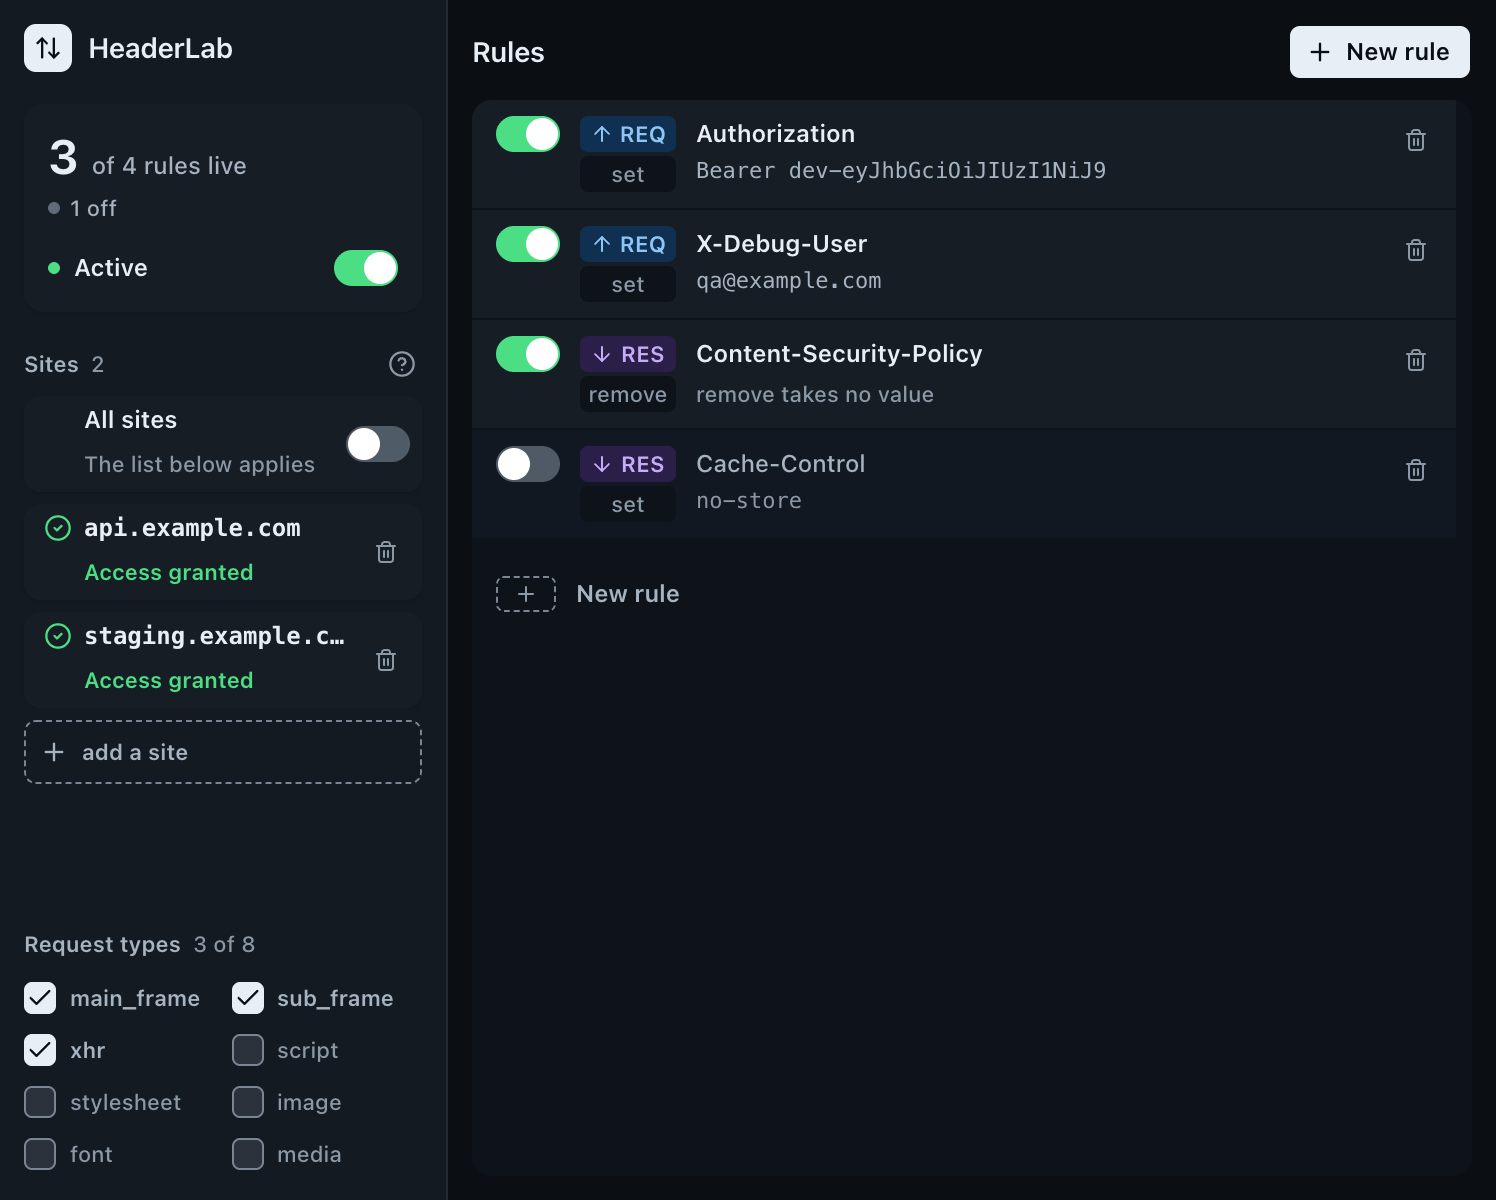
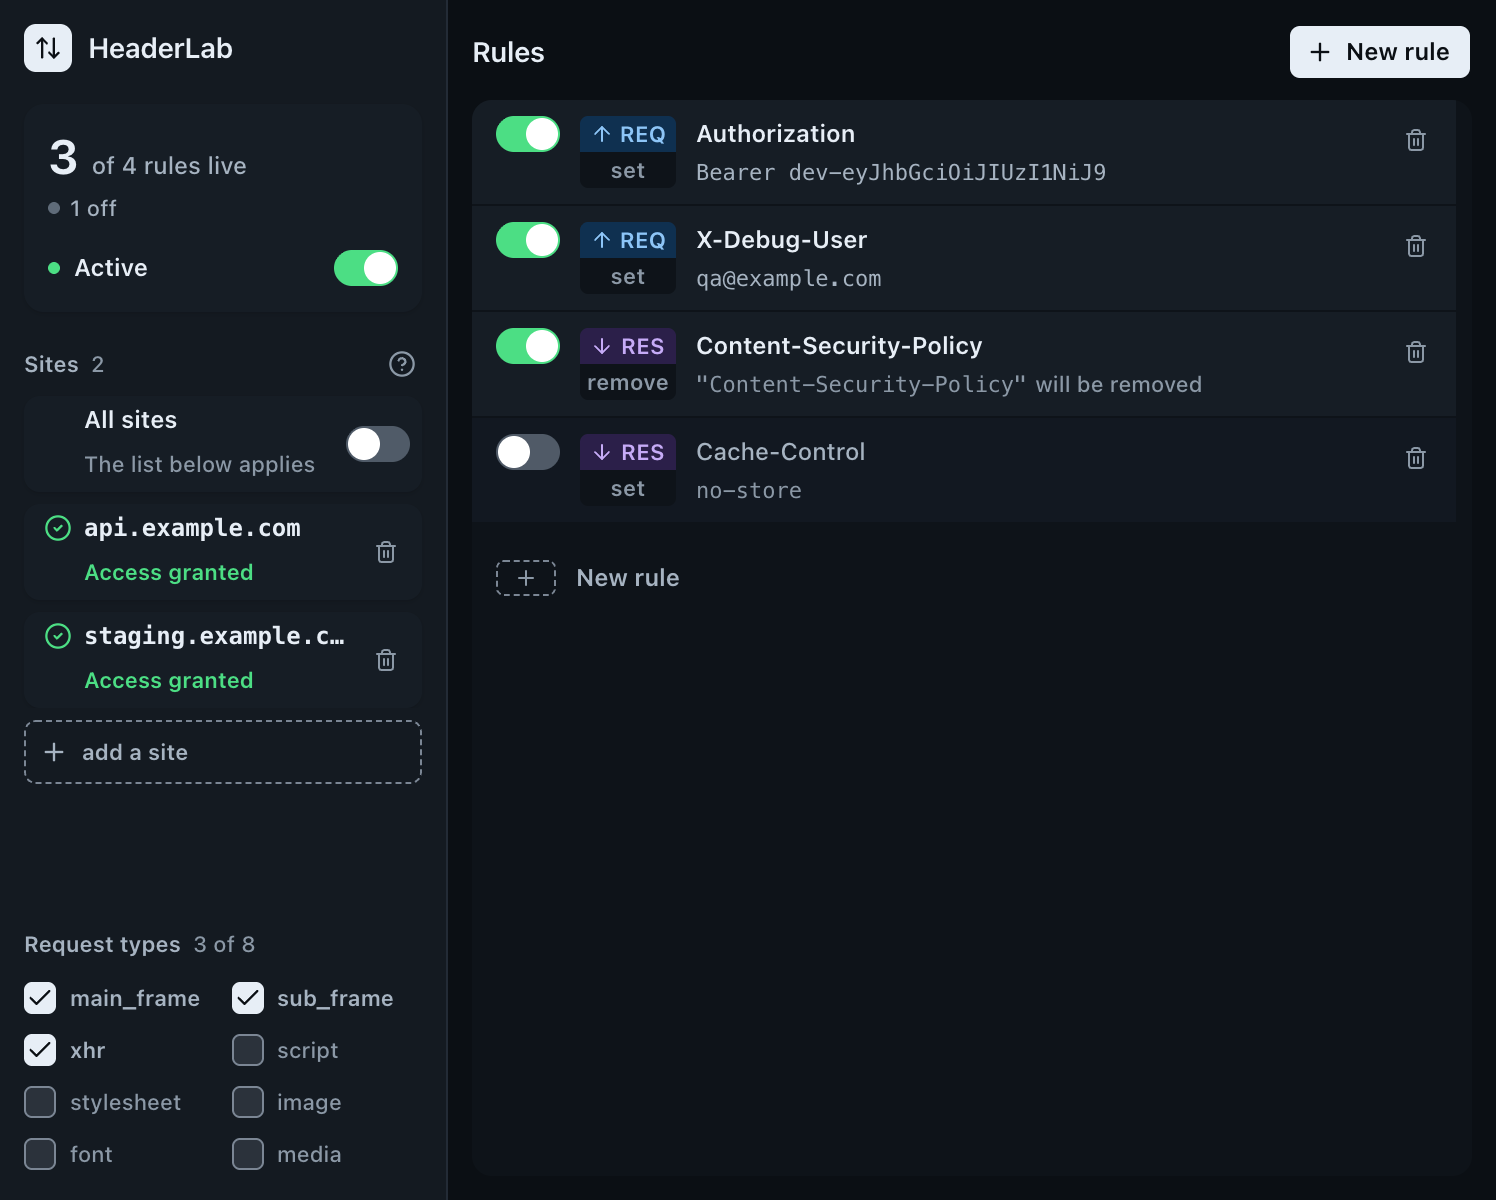
refactor: 방향 배지와 operation 을 하나의 블록으로 잇고, 값 영역을 다시 그린다
오너 요청 6건 중 컴파일 버그(73b1252, 별도 커밋)를 뺀 UI 다섯 건.

2. REQ 와 SET 을 이어 붙인다 — 시안 C 안. 바깥 컨테이너 하나가
   rounded-[4px] 와 overflow-hidden 을 갖고, 배지·칩은 각각 rounded-none
   h-[18px] w-12 로 이음매 없이 붙는다. 처음 C 안을 보였을 때 낸 우려를
   그대로 옮긴다 — 서로 다른 값을 바꾸는 버튼 둘이 한 덩어리로 보이면 한
   클릭이 둘 다 바꾸는 것처럼 읽힌다. 오너가 그걸 알고 골랐으니 만들되,
   hover:brightness-110 으로 절반만 밝아지게 해 두 버튼이라는 걸 손으로
   확인할 수 있게 했다. aria-label 둘은 그대로 유지.

3. 칩 타이포를 배지와 맞춘다 — 실측해 보니 폰트 크기(11px)는 이미
   같았고 실제로 다른 건 굵기(500→600)와 자간(normal→0.11px) 이었다.
   font-semibold tracking-[0.01em] 로 올려 배지와 완전히 같게 만들었다.

4. "상태에 따라 폰트가 바뀐다"는 실측상 사실이 아니었다 — set/append/
   remove/off 네 상태 전부 11px·600·0.11px·48×18 로 동일했고(3번 고치기
   전에도 그랬다), 다른 건 고정 48px 안의 글자 수뿐이었다. 코드 변경 없음.

5. 오른쪽 열(이름+값)을 거터 높이에 맞춰 다시 배치한다. self-stretch 로
   거터와 같은 높이를 갖게 하고 justify-between 으로 이름은 위(거터의
   배지와 같은 y), 값은 아래(거터 바닥과 같은 y)에 고정했다 — 가운데
   정렬을 그대로 썼다면 이름이 배지보다 아래로 밀려 지금 레이아웃의
   기준선이 깨졌을 것이다. 실측: 이름 top=8·bottom=26 이 배지와 정확히
   같고, 값 bottom=44 가 거터 바닥과 정확히 같다.

   부수 효과: 배지+칩을 2번에서 붙이며 거터 사이 gap 이 없어져 거터가
   38px→36px 로 줄고, 행 높이가 54px→52px 로 같이 줄었다 — 지난 태스크가
   재서 적어 둔 54px 는 이제 옛 숫자다.

6. remove 값 영역 문구를 "무엇을 할지" 말하게 바꾼다 — "X will be
   removed"(헤더 이름은 모노, 나머지는 산세리프). 이름이 비어 있으면
   빈 따옴표 대신 이름 절 자체를 뺀 문장을 쓴다. 긴 이름은 truncate +
   title 로 잘리고 고정 어미는 안 잘린다(AddSiteField.tsx 의 같은 패턴).
   disabled:opacity-50 대신 cursor-not-allowed 를 썼다 — opacity-50 을
   --muted-foreground 에 얹으면 대비가 2.1~2.5:1 로 떨어져(실측) 이
   저장소가 지키는 4.5 바닥을 깬다. cursor-not-allowed 도 같은 shadcn
   disabled 어휘고, 대비 비용이 없다.
[…]

diff --git a/components/RuleCard.tsx b/components/RuleCard.tsx
@@ -34,20 +34,24 @@ export interface RuleCardProps {
  * This is where "one line, four button languages" lived: direction was a
  * pill, `set`/`remove` was a bordered box, delete was a bare `×`, and the
  * switch was a fourth shape again. Now there is one family — a real Switch,
- * a direction Badge carrying an arrow stacked above an operation chip cut
- * from the exact same cloth (same size, same radius, the badge's sibling
- * rather than a fourth shape of its own — their fills differ on purpose,
- * see the chip's own comment below), and a ghost icon Button for delete.
+ * a direction Badge fused to an operation chip cut from the exact same
+ * cloth (same size, same radius, the badge's sibling rather than a fourth
+ * shape of its own — their fills differ on purpose, see the chip's own
+ * comment below), and a ghost icon Button for delete.
  *
  * The gutter reads top-to-bottom as *what this rule does* — direction, then
- * operation, two chips in one column — and the right-hand column reads as
+ * operation, one glued block with a straight seam rather than a gap between
+ * its two halves (owner decision: variant C of four 1:1 renders, picked
+ * knowing the risk a fused shape carries — two buttons that change two
+ * different fields can read as one; the `hover:brightness-110` on each half
+ * is what keeps that discoverable) — and the right-hand column reads as
  * *what it is about* — name, then value, the value now alone on its own
- * line and free to use the column's full width (owner decision: variant B
- * of four 1:1 renders, chip height pinned to the badge's 18px). Name is
- * sans, value is monospace — provenance, not rank, decides the typeface
+ * line and free to use the column's full width. Name is sans, value is
+ * monospace — provenance, not rank, decides the typeface
  * (docs/design/2026-08-07-popup-tight-instrument.html). A `remove` rule has
- * no value, and says so in the place a value would be rather than rendering
- * an empty field.
+ * no value, and its line says what the row will actually do — `"X-Trace"
+ * will be removed` — rather than describing the empty field it doesn't
+ * render.
  *
  * The row's height follows its value: the value wraps and grows rather than
  * truncating, the same bargain the pre-mockup design struck — a value with
@@ -72,6 +76,10 @@ export function RuleCard({ rule, diagnostics, onPatch, onDelete, autoFocus }: Ru
   const name = useCommittedDraft(rule.name, (next) => onPatch({ name: next }));
   const value = useCommittedDraft(rule.value, (next) => onPatch({ value: next }));
   const removes = rule.operation === 'remove';
+  // The stored name, not `name.draft` — the remove-value sentence is a
+  // static readout of what is actually saved, not of what is mid-edit in
+  // the name field beside it.
+  const removeName = rule.name.trim();
   const DirIcon = TARGET_ICON[rule.target];
 
   /**
@@ -130,18 +138,26 @@ export function RuleCard({ rule, diagnostics, onPatch, onDelete, autoFocus }: Ru
           className="data-checked:bg-live [&_[data-slot=switch-thumb]]:dark:bg-white"
         />
 
-        {/* The gutter: direction over operation, one column, two chips cut
-            from the same cloth. Owner-picked variant B of four 1:1 renders,
-            with one addendum — the chip is pinned to the badge's own 18px
-            height rather than shaved down to save the 3px the taller gutter
-            costs. `gap-0.5` (2px) keeps them two controls, not one: flush
-            against each other would read as a single button that changes
-            both direction and operation on one click, and they change
-            different fields. */}
-        <div className="flex flex-col gap-0.5">
+        {/* The gutter: direction fused to operation, one rounded block.
+            Owner-picked variant C of four 1:1 renders — the fused shape I
+            flagged a concern about when I first drew it: these are two
+            buttons that change two different fields, and a single glued
+            block reads as one control that would flip both on one click.
+            Built anyway (the owner's call, made knowing the concern), with
+            the two-button nature made discoverable on touch — see the
+            `hover:brightness-110` on each half below, which lights up only
+            the half under the cursor, and the two distinct `aria-label`s,
+            unmerged.
+
+            The outer box owns the only curve (`rounded-[4px]`, the corner
+            radius for controls this size) and clips its children
+            (`overflow-hidden`); each half is `rounded-none` and exactly
+            `h-[18px] w-12`, so the seam between them is a straight line, not
+            a gap — `gap-0.5` from the previous (B) round is gone. */}
+        <div className="flex w-12 shrink-0 flex-col overflow-hidden rounded-[4px]">
           <Badge
             asChild
-            className={`h-[18px] w-12 shrink-0 justify-center gap-[3px] rounded-[4px] border-0 px-0 py-0 text-[11px] font-semibold tracking-[0.01em] ${TARGET_TONE[rule.target]}`}
+            className={`h-[18px] w-12 shrink-0 justify-center gap-[3px] rounded-none border-0 px-0 py-0 text-[11px] font-semibold tracking-[0.01em] hover:brightness-110 ${TARGET_TONE[rule.target]}`}
           >
             <button
               type="button"
@@ -159,20 +175,28 @@ export function RuleCard({ rule, diagnostics, onPatch, onDelete, autoFocus }: Ru
               clipping check the same way it was counted as the old op
               button.
 
-              What it actually shares with the badge above it is narrower
-              than "same fill logic": both are opaque token pairs, never
-              repainted by the *row's* state (`data-off`), so the text stays
-              `--muted-foreground` on `--tray` whether the rule is on or
-              off — that is the parity, and it is the only one. The badge
-              *does* still repaint by its own value (`TARGET_TONE`, blue
-              REQ / purple RES); the chip deliberately does not, because
-              three operations is a cycler rather than a two-state
-              direction, and tinting each would spend colour marking a
-              distinction the word "set"/"append"/"remove" already makes on
-              its own. */}
+              Typography now matches the badge exactly rather than only in
+              size: `font-semibold tracking-[0.01em]`, the same 600 weight
+              and 0.11px letter-spacing REQ/RES wears (measured — the two
+              were already both 11px; weight and tracking were the actual
+              gap, and are what read as a size difference). Never repainted
+              by `rule.operation` or by `data-off` — what it shares with the
+              badge above it is narrower than "same fill logic": both are
+              opaque token pairs, never repainted by the *row's* state, so
+              the text stays `--muted-foreground` on `--tray` whether the
+              rule is on or off. The badge *does* still repaint by its own
+              value (`TARGET_TONE`, blue REQ / purple RES); the chip
+              deliberately does not, because three operations is a cycler
+              rather than a two-state direction, and tinting each would
+              spend colour marking a distinction the word
+              "set"/"append"/"remove" already makes on its own — measured
+              across all three operations and both `data-off` states: font
+              size, weight, tracking and box size are identical in every
+              one; only the glyph count (3 vs 6 characters in a fixed 48px
+              box) differs, which is not a font change. */}
           <Badge
             asChild
-            className="h-[18px] w-12 shrink-0 justify-center rounded-[4px] border-0 bg-tray px-0 py-0 text-[11px] font-medium text-muted-foreground"
+            className="h-[18px] w-12 shrink-0 justify-center rounded-none border-0 bg-tray px-0 py-0 text-[11px] font-semibold tracking-[0.01em] text-muted-foreground hover:brightness-110"
           >
             <button
               type="button"
@@ -184,7 +208,21 @@ export function RuleCard({ rule, diagnostics, onPatch, onDelete, autoFocus }: Ru
           </Badge>
         </div>
 
-        <div className="min-w-0 flex-1">
+        {/* `self-stretch` overrides the row's own `items-start` for just this
+            child, so its box is exactly as tall as the gutter (38px) rather
+            than only as tall as its own content (~34.5px, which used to
+            leave 4px of dead space below the value — measured, and the
+            reason the value read as pushed toward the top). `justify-between`
+            inside it pins name to the very top of that box and value to the
+            very bottom, rather than `justify-center`, which was tried first
+            and rejected: centering would have pushed name's own top edge
+            down by half the slack, breaking the one thing the row's
+            `items-start` exists to guarantee — name's first line sitting on
+            the same axis as the badge above it. `justify-between` keeps
+            name's top pixel-identical to before while still using the
+            gutter's full height, which is what "vertically centered against
+            the gutter" turns into once that constraint is held fixed. */}
+        <div className="flex min-w-0 flex-1 flex-col justify-between self-stretch">
           {/* display:block, not flex — a flex child truncates by hard-clipping
               instead of marking the truncation with an ellipsis (see the
               mockup's own comment on .te-name). */}
@@ -207,12 +245,60 @@ export function RuleCard({ rule, diagnostics, onPatch, onDelete, autoFocus }: Ru
               splitting it with a 44px op cycler. */}
           <div className="mt-0.5 flex min-w-0 items-start">
             {removes ? (
-              <span
-                className="mt-px min-w-0 flex-1 text-[11px] leading-[14px] font-medium text-muted-foreground"
-                data-testid="rule-value"
-              >
-                remove takes no value
-              </span>
+              removeName === '' ? (
+                // Unfinished, not wrong — same reasoning as the problem
+                // block above never accusing a one-click-old row (see this
+                // file's own docblock on `unfinished`). The quoted-name
+                // sentence needs a real name to quote; rather than print
+                // empty quotes ("" will be removed, which reads as a typo
+                // or a bug), the sentence drops the name clause entirely
+                // and says what is still true without it.
+                <span
+                  className="mt-px min-w-0 flex-1 truncate cursor-not-allowed text-[11px] leading-[14px] font-medium text-muted-foreground"
+                  data-testid="rule-value"
+                >
+                  This header will be removed once it&apos;s named.
+                </span>
+              ) : (
+                // Says what the row will do, not that it has nothing to
+                // show — the previous "remove takes no value" described the
+                // field, not the effect. The header name is mono (the one
+                // piece of this sentence the user actually typed — the
+                // global rule) and, unlike the rest of the fixed sentence,
+                // unbounded in length (no cap in lib/model/schema.ts), so it
+                // is the part that gives way: `min-w-0 truncate` plus
+                // `title` on its own span, mirroring AddSiteField.tsx's
+                // "already in the list" note — the same shape of problem
+                // (a bounded row holding one unbounded value beside fixed
+                // words) gets the same fix. The fixed suffix is `shrink-0
+                // whitespace-nowrap` so it is never itself the thing that
+                // clips. `gap-1`, not a text-node space, between them —
+                // flex blockifies both children, and a blockified box's own
+                // leading/trailing white space collapses to nothing at
+                // render (measured in AddSiteField's own history; jsdom's
+                // `textContent` would not have shown the difference).
+                //
+                // `cursor-not-allowed` is the disabled signal, not
+                // `disabled:opacity-50` as suggested — that pseudo-class
+                // only matches a real form control, this is a `<span>`, and
+                // fading `--muted-foreground` toward the background instead
+                // (an unconditional `opacity-50`) measures at 2.1–2.5:1 in
+                // this palette, under the 4.5 floor every other piece of
+                // text in this popup clears — exactly the failure mode this
+                // redesign's whole contrast section exists to keep out.
+                // `cursor-not-allowed` is real vocabulary from the same
+                // shadcn disabled state (`components/ui/input.tsx`) that
+                // costs no contrast.
+                <span
+                  className="mt-px flex min-w-0 flex-1 cursor-not-allowed items-baseline gap-1 text-[11px] leading-[14px] font-medium text-muted-foreground"
+                  data-testid="rule-value"
+                >
+                  <span className="min-w-0 truncate font-mono" title={removeName}>
+                    &quot;{removeName}&quot;
+                  </span>
+                  <span className="shrink-0 whitespace-nowrap">will be removed</span>
+                </span>
+              )
             ) : (
               <textarea
                 aria-label="Header value"

diff --git a/tests/unit/RuleCard.test.tsx b/tests/unit/RuleCard.test.tsx
@@ -355,14 +355,26 @@ describe('RuleCard tab order', () => {
 });
 
 describe('RuleCard value slot', () => {
-  it('says a remove rule takes no value, and offers no field to type one into', () => {
+  it('says what a remove rule will do, and offers no field to type a value into', () => {
     // The grid this replaces drew an empty cell for `remove` because a column
-    // layout gave it no choice, then invented "— no value" to fill it. Here
-    // the operation genuinely has no value, so there is nothing to edit —
-    // `queryByRole` is what pins that, not just the wording.
-    renderCard({ operation: 'remove', value: '' });
-    expect(screen.getByTestId('rule-value').textContent).toBe('remove takes no value');
+    // layout gave it no choice, then invented "— no value" to fill it. Task
+    // 12 moved on from "remove takes no value" (which described the empty
+    // field, not the rule's effect) to a sentence that says what actually
+    // happens. `queryByRole` still pins that there is nothing to edit here,
+    // not just the wording.
+    renderCard({ operation: 'remove', name: 'X-Trace', value: '' });
+    expect(screen.getByTestId('rule-value').textContent).toBe('"X-Trace"will be removed');
     expect(screen.queryByRole('textbox', { name: 'Header value' })).toBeNull();
+  });
+
+  it('says a remove rule with no name yet will still be removed, without printing empty quotes', () => {
+    // The name clause needs a real name to quote. `""` will be removed reads
+    // as a typo, not a sentence, so the empty case drops the clause entirely
+    // rather than interpolating a blank string into it.
+    renderCard({ operation: 'remove', name: '', value: '' });
+    expect(screen.getByTestId('rule-value').textContent).toBe(
+      "This header will be removed once it's named.",
+    );
   });
 
   it('gives a set rule a real editable value carrying the stored text', () => {
